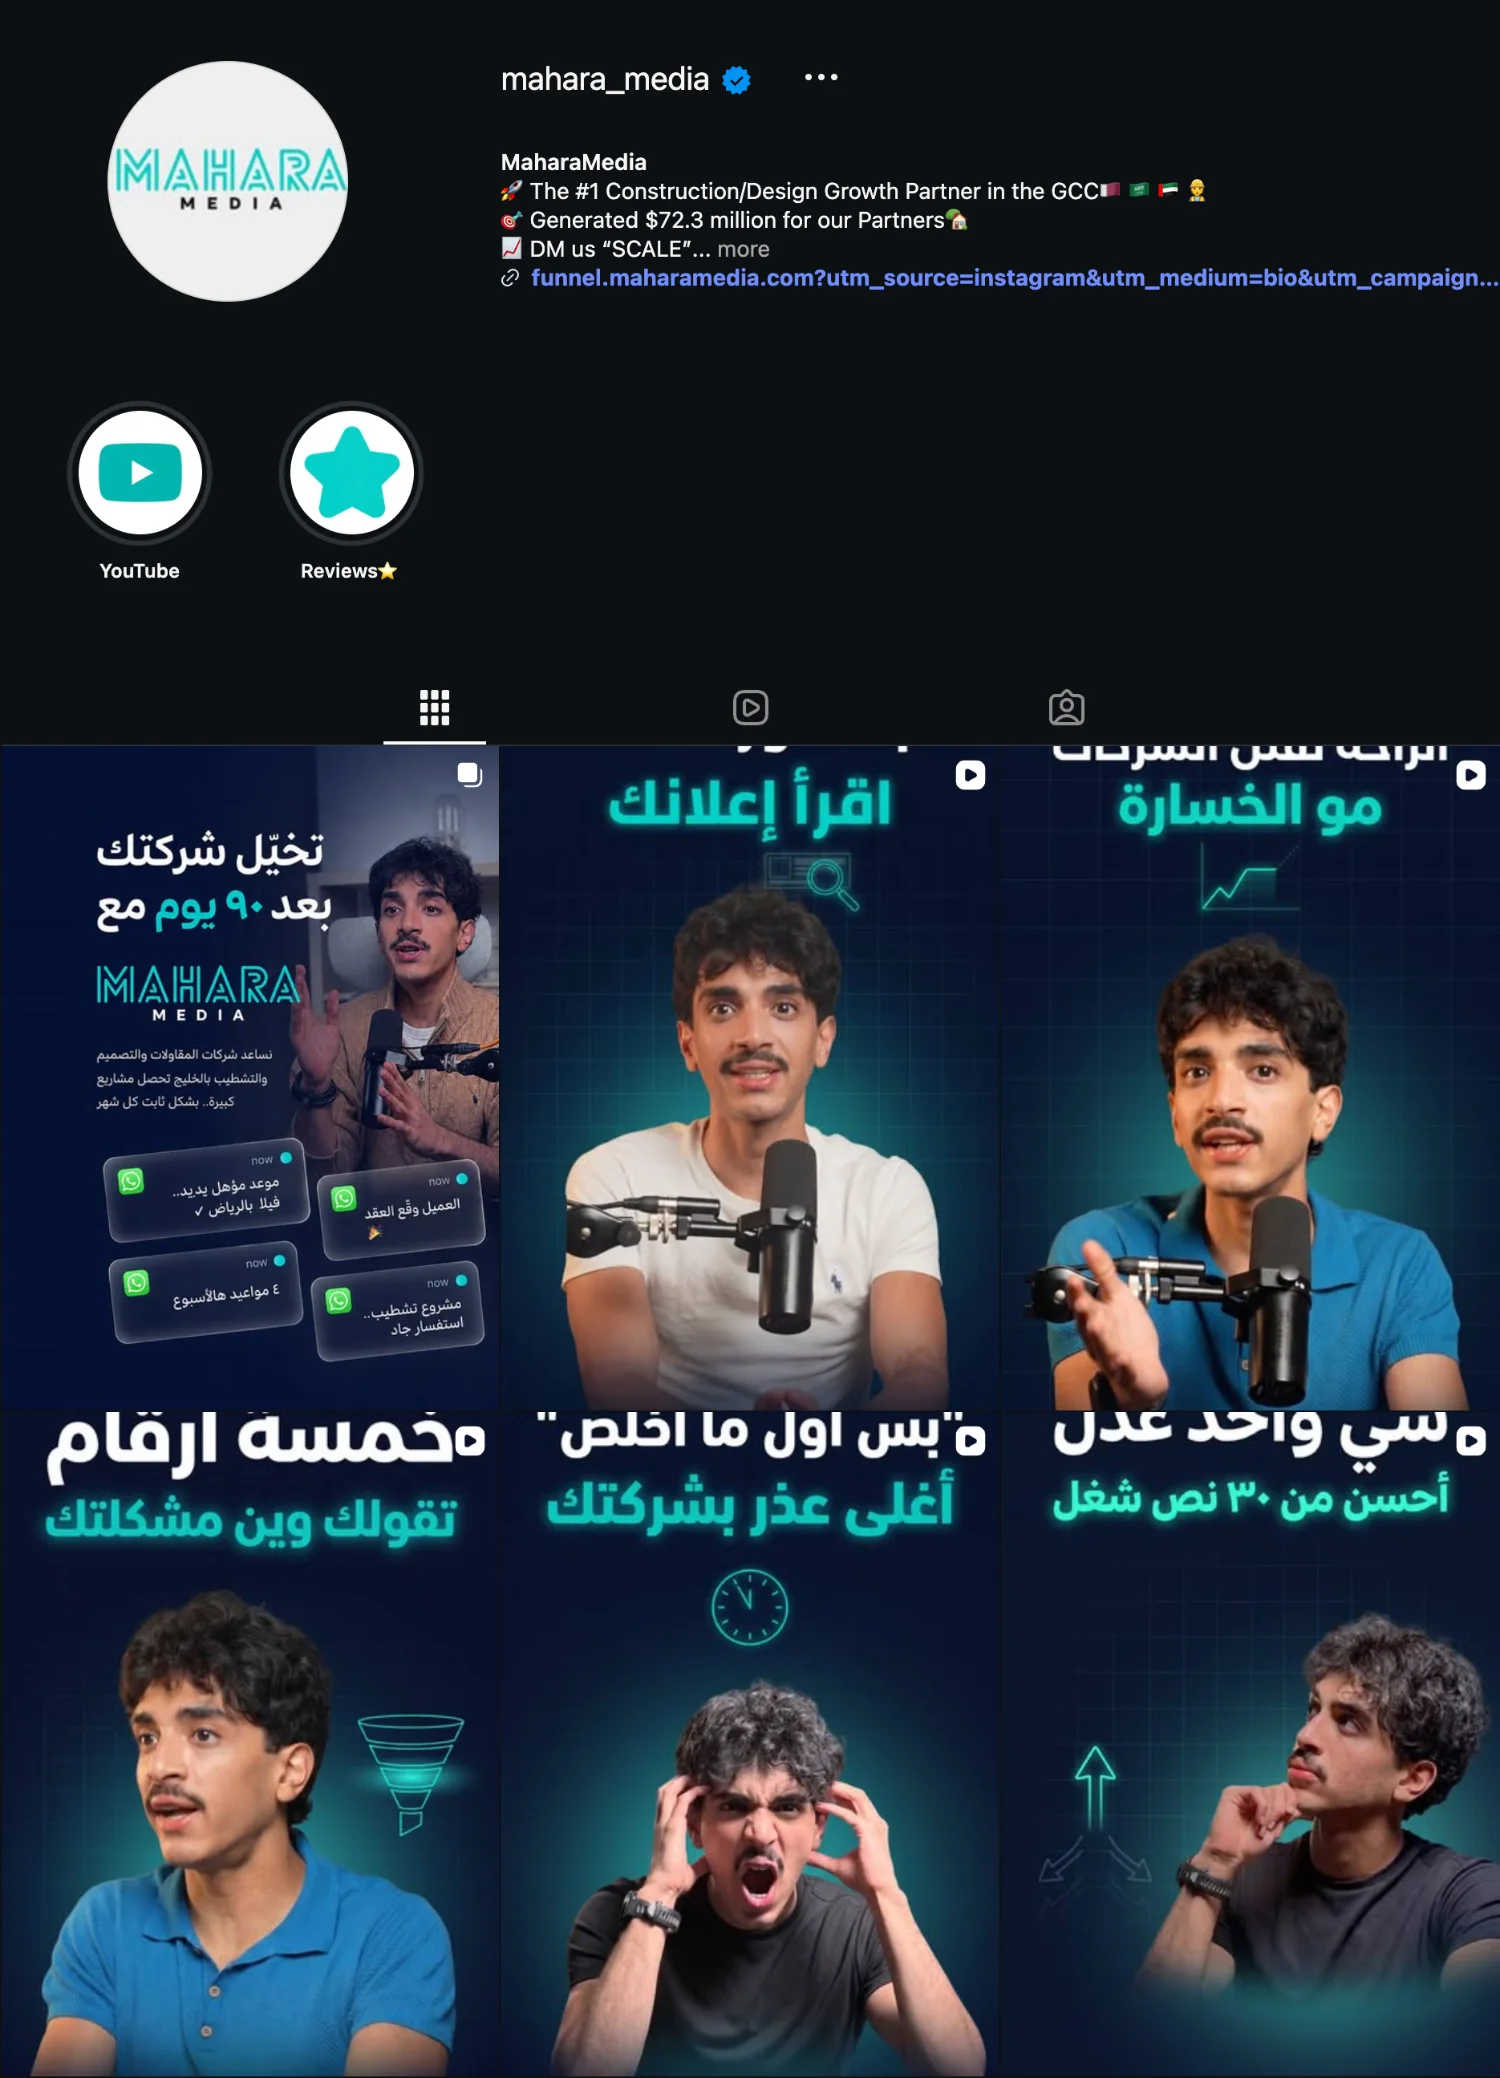
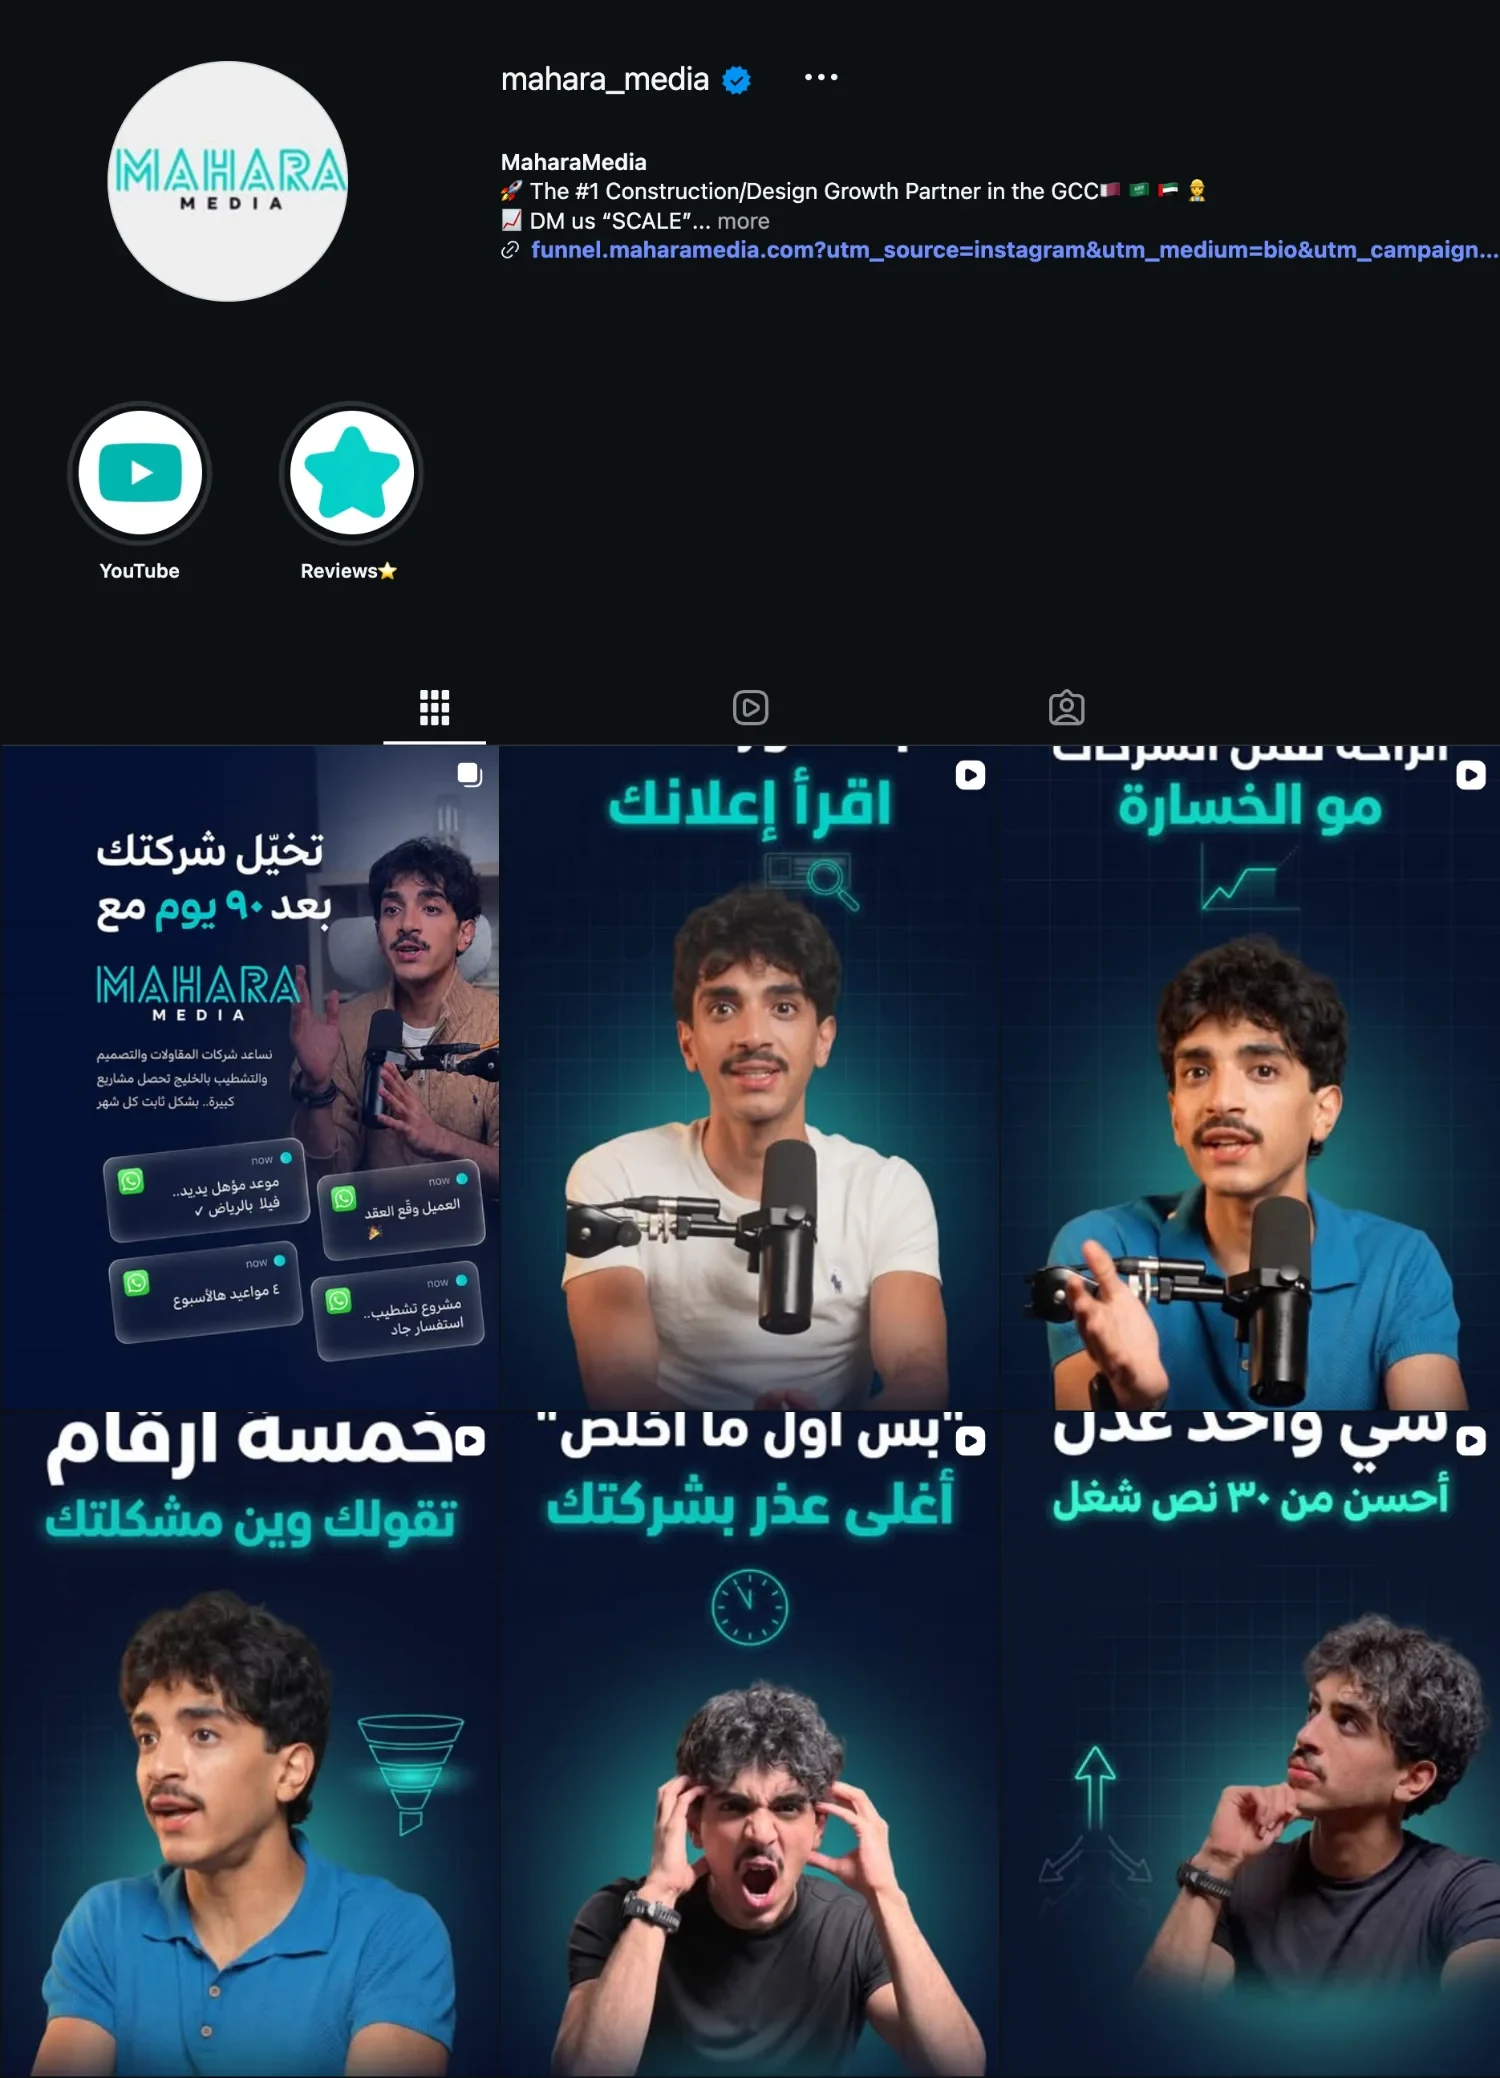
Instagram picture: the retired "$72.3 million" bio line is taken out
The channels slide's Instagram picture showed the bio line "Generated $72.3
million for our Partners", a retired figure. The line is gone from the
existing WebP: the lines under it moved up into its place, and the picture
keeps its 1500 x 2078 size and corner colour, so order.test.ts holds.
capture-profiles.mjs now removes that bio line (its text node and <br>)
before it captures and stops if a dollar figure is still showing, so a
re-capture does not bring it back. A trial run gave the same bio.

Changed region(s): [[0.3373, 0.0924, 1.0, 0.154]]

diff --git a/apps/sales-cockpit/src/deck/proof.ts b/apps/sales-cockpit/src/deck/proof.ts
@@ -522,6 +522,11 @@ export interface Profile {
  * and in dark mode, with the subscriber, video, view, post and follower
  * counts hidden before the capture. Run it again to refresh both pictures,
  * then set `r` and `w` from what it prints.
+ *
+ * On 2026-10-11 the Instagram bio's "Generated $72.3 million for our
+ * Partners" line, a retired figure, was taken out of the picture: the lines
+ * under it moved up and the picture kept its 1500 x 2078 size. The script now
+ * cuts that line before it captures, until the bio itself changes.
  */
 export const PROFILES: Profile[] = [
   {
